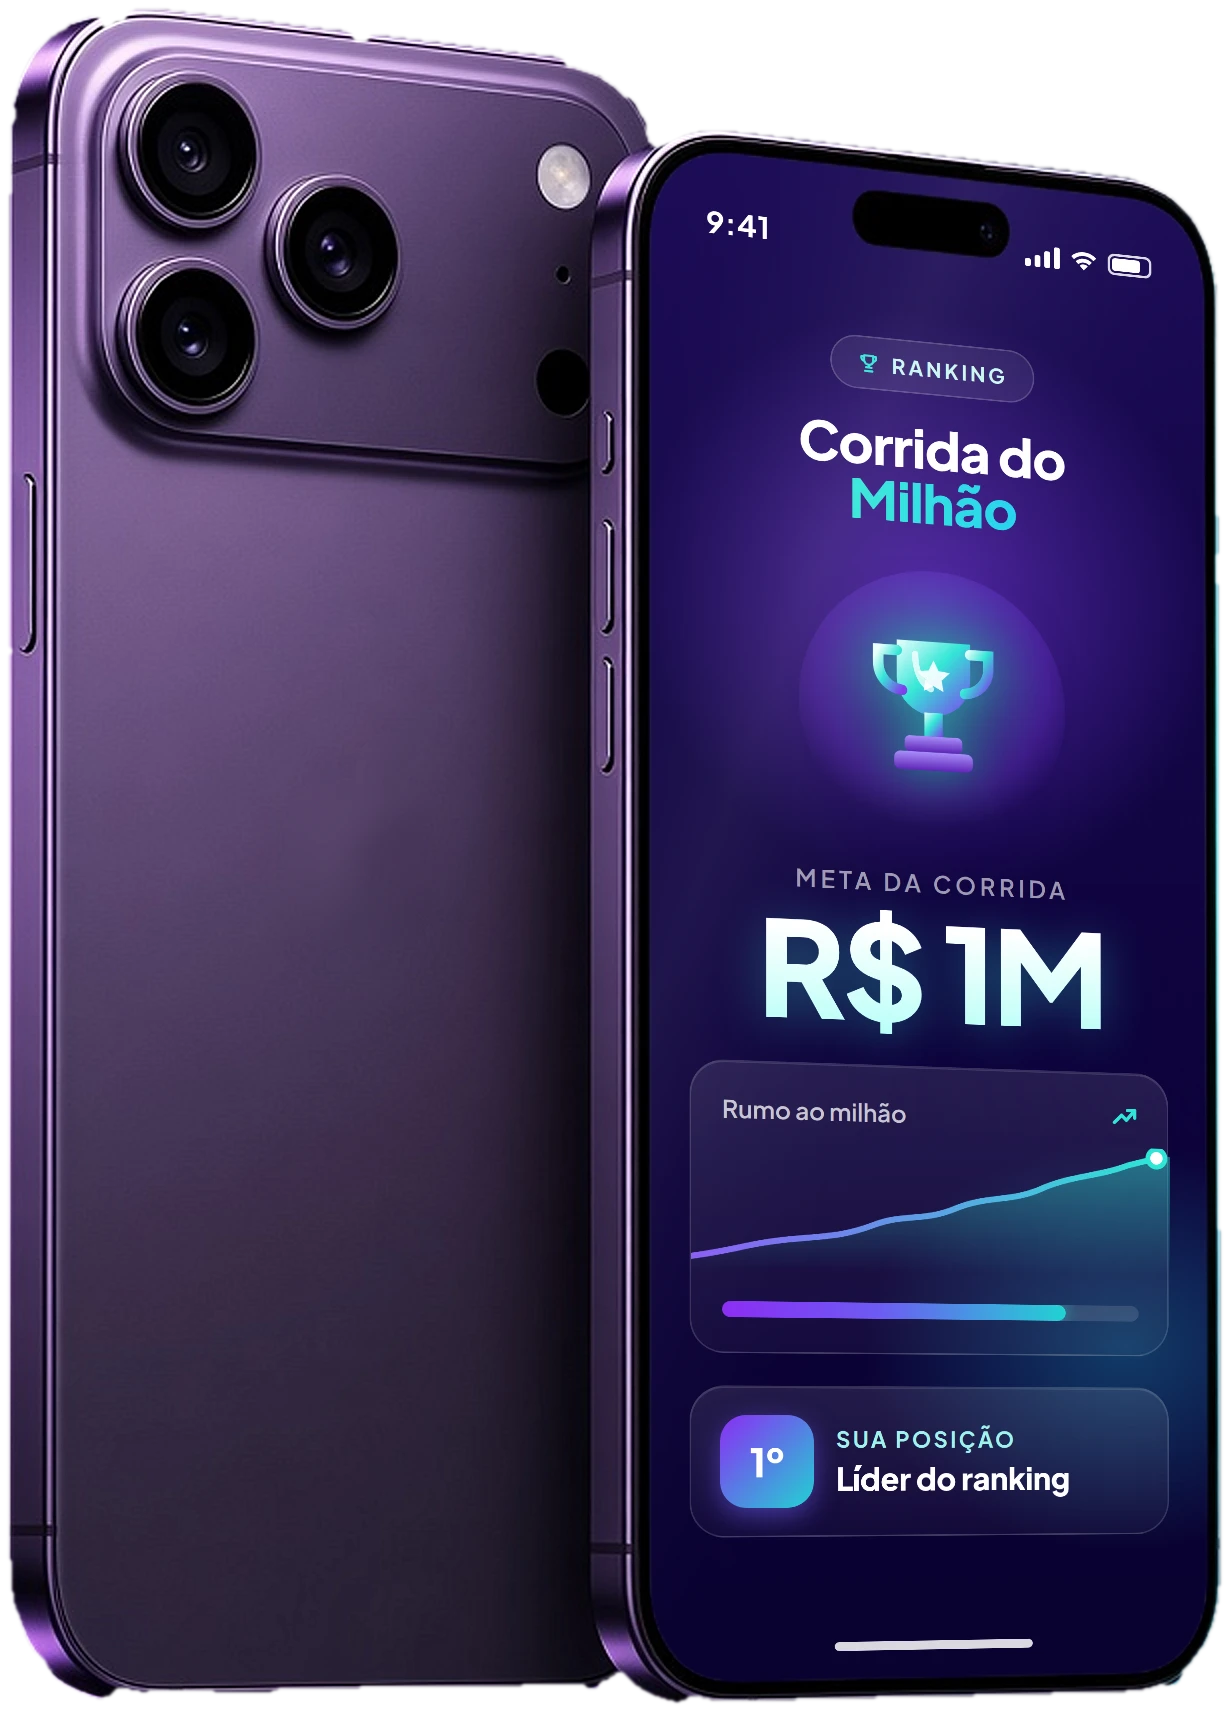
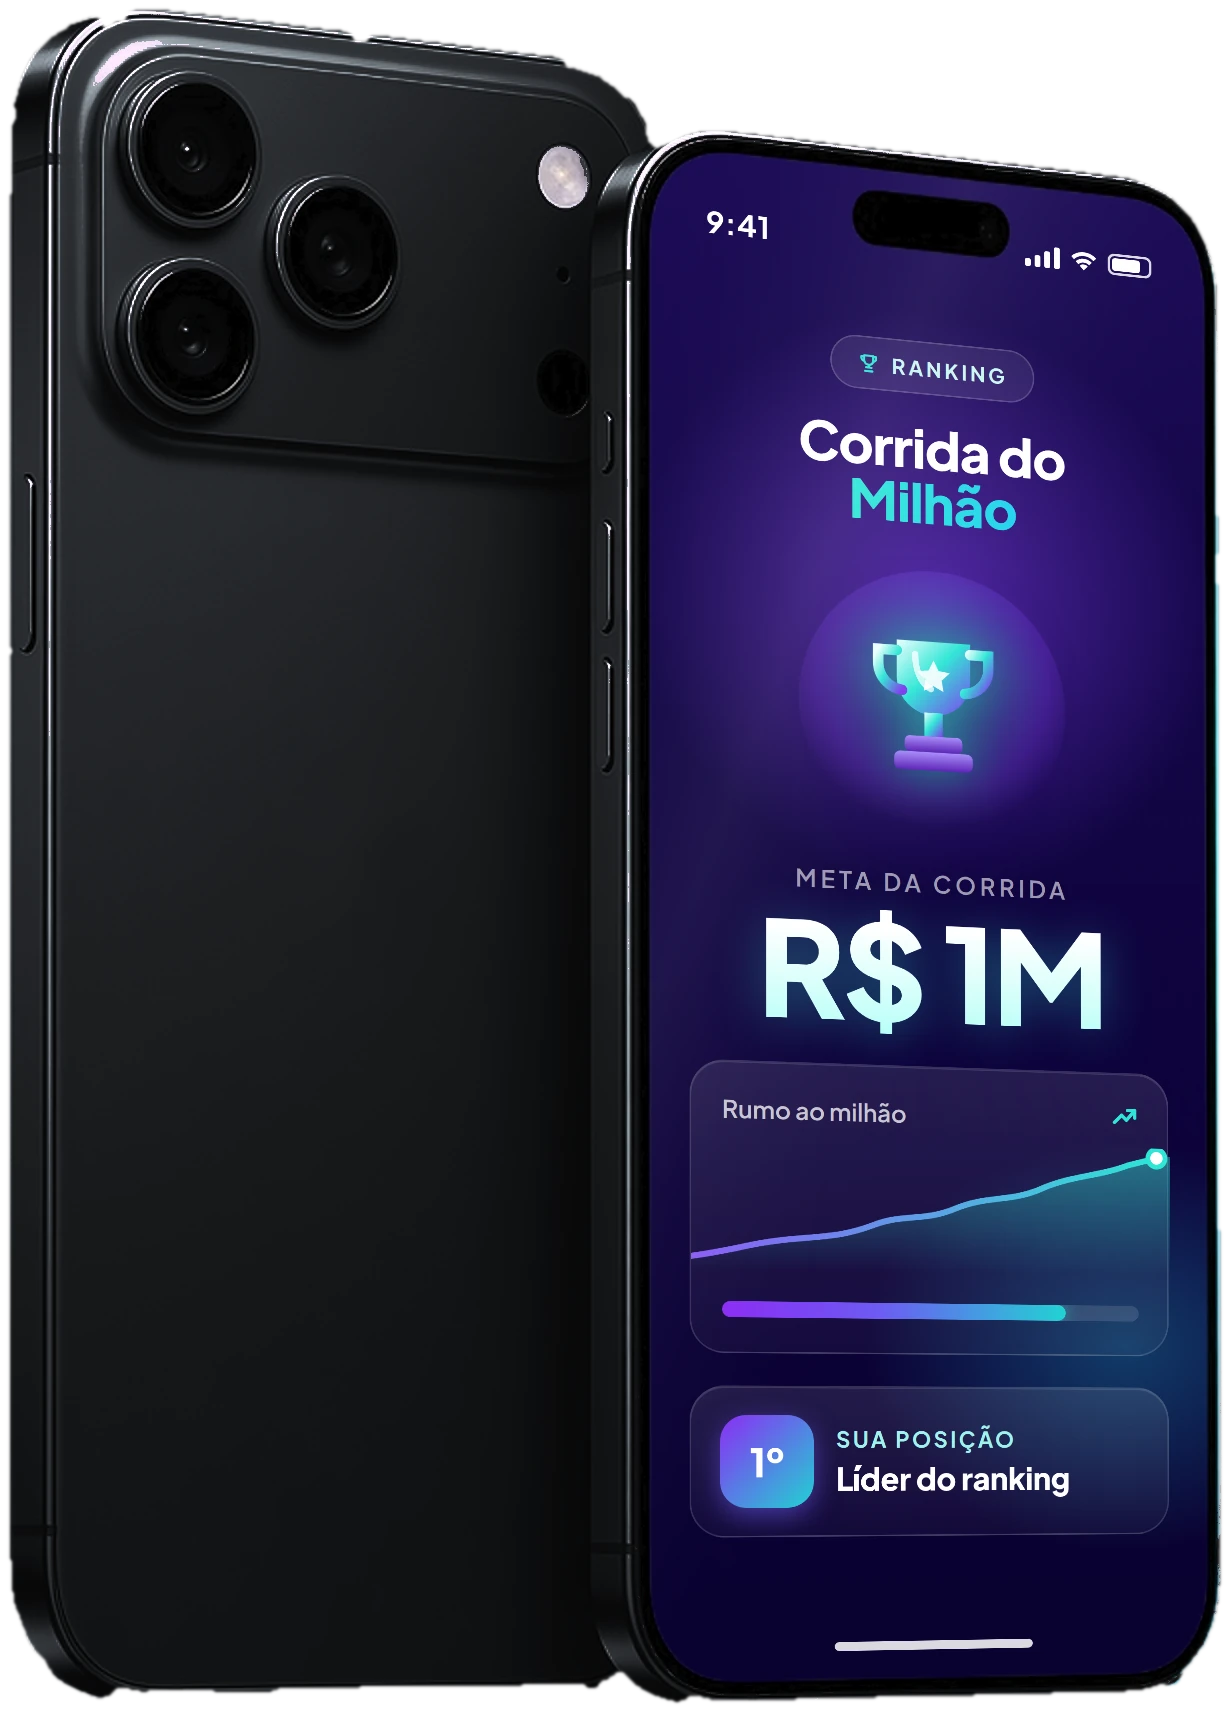
Troca o iPhone da página da Corrida do Milhão para o modelo preto.

diff --git a/leonapay-corrida/index.html b/leonapay-corrida/index.html
@@ -338,7 +338,7 @@
         <div class="halo"></div>
         <div class="ring"></div>
         <div class="floor"></div>
-        <img class="phones" src="assets/phones.webp" alt="iPhone 18 Pro Max roxo, frente e verso, com a tela da Corrida do Milhão" width="1230" height="1712">
+        <img class="phones" src="assets/phones.webp" alt="iPhone 18 Pro Max preto, frente e verso, com a tela da Corrida do Milhão" width="1230" height="1712">
         <svg class="spark" style="left: 22%; top: 2%;" viewBox="0 0 56 56" aria-hidden="true"><path d="M28 0C29.5 20 36 26.5 56 28 36 29.5 29.5 36 28 56 26.5 36 20 29.5 0 28 20 26.5 26.5 20 28 0Z" fill="#fff"/></svg>
         <svg class="spark" style="right: 12%; top: 12%; width: 18px; height: 18px; animation-delay: 1.4s;" viewBox="0 0 56 56" aria-hidden="true"><path d="M28 0C29.5 20 36 26.5 56 28 36 29.5 29.5 36 28 56 26.5 36 20 29.5 0 28 20 26.5 26.5 20 28 0Z" fill="#e6fffc"/></svg>
         <div class="prize">

diff --git a/leonapay-corrida/CORRIDA-DO-MILHAO.md b/leonapay-corrida/CORRIDA-DO-MILHAO.md
@@ -61,13 +61,13 @@ Todo botão de conversão aponta para o mesmo lugar, em nova aba ou na mesma, se
 | Arquivo | Uso |
 |---|---|
 | `assets/logo-white.png` | Logo oficial. Origem: `https://leonapay.com.br/brand/logo-white.png`. Altura 34px no topo e 30px no rodapé. |
-| `assets/phones.webp` | Dois iPhones roxos, frente e verso, fundo transparente. A tela da frente mostra a campanha (troféu, “Corrida do Milhão”, “META DA CORRIDA”, “R$ 1M”, gráfico “Rumo ao milhão” e card “1º / SUA POSIÇÃO / Líder do ranking”). Sem logo da Apple na traseira. |
+| `assets/phones.webp` | Dois iPhones pretos, frente e verso, fundo transparente. A tela da frente mostra a campanha (troféu, “Corrida do Milhão”, “META DA CORRIDA”, “R$ 1M”, gráfico “Rumo ao milhão” e card “1º / SUA POSIÇÃO / Líder do ranking”). Sem logo da Apple na traseira. |
 | `assets/favicon.ico` | Favicon do Leona Pay. |
 
 Halo roxo e turquesa atrás dos aparelhos, dois brilhos pequenos e um selo sobre o aparelho de trás:
 
 - selo: “PRÊMIO 1º LUGAR” / “iPhone 18 Pro Max”
-- alt da imagem: `iPhone 18 Pro Max roxo, frente e verso, com a tela da Corrida do Milhão`
+- alt da imagem: `iPhone 18 Pro Max preto, frente e verso, com a tela da Corrida do Milhão`
 
 No rodapé, a linha legal: `Leona Pay — a API sem fronteiras. Imagens meramente ilustrativas. iPhone é marca registrada da Apple Inc.`
 
